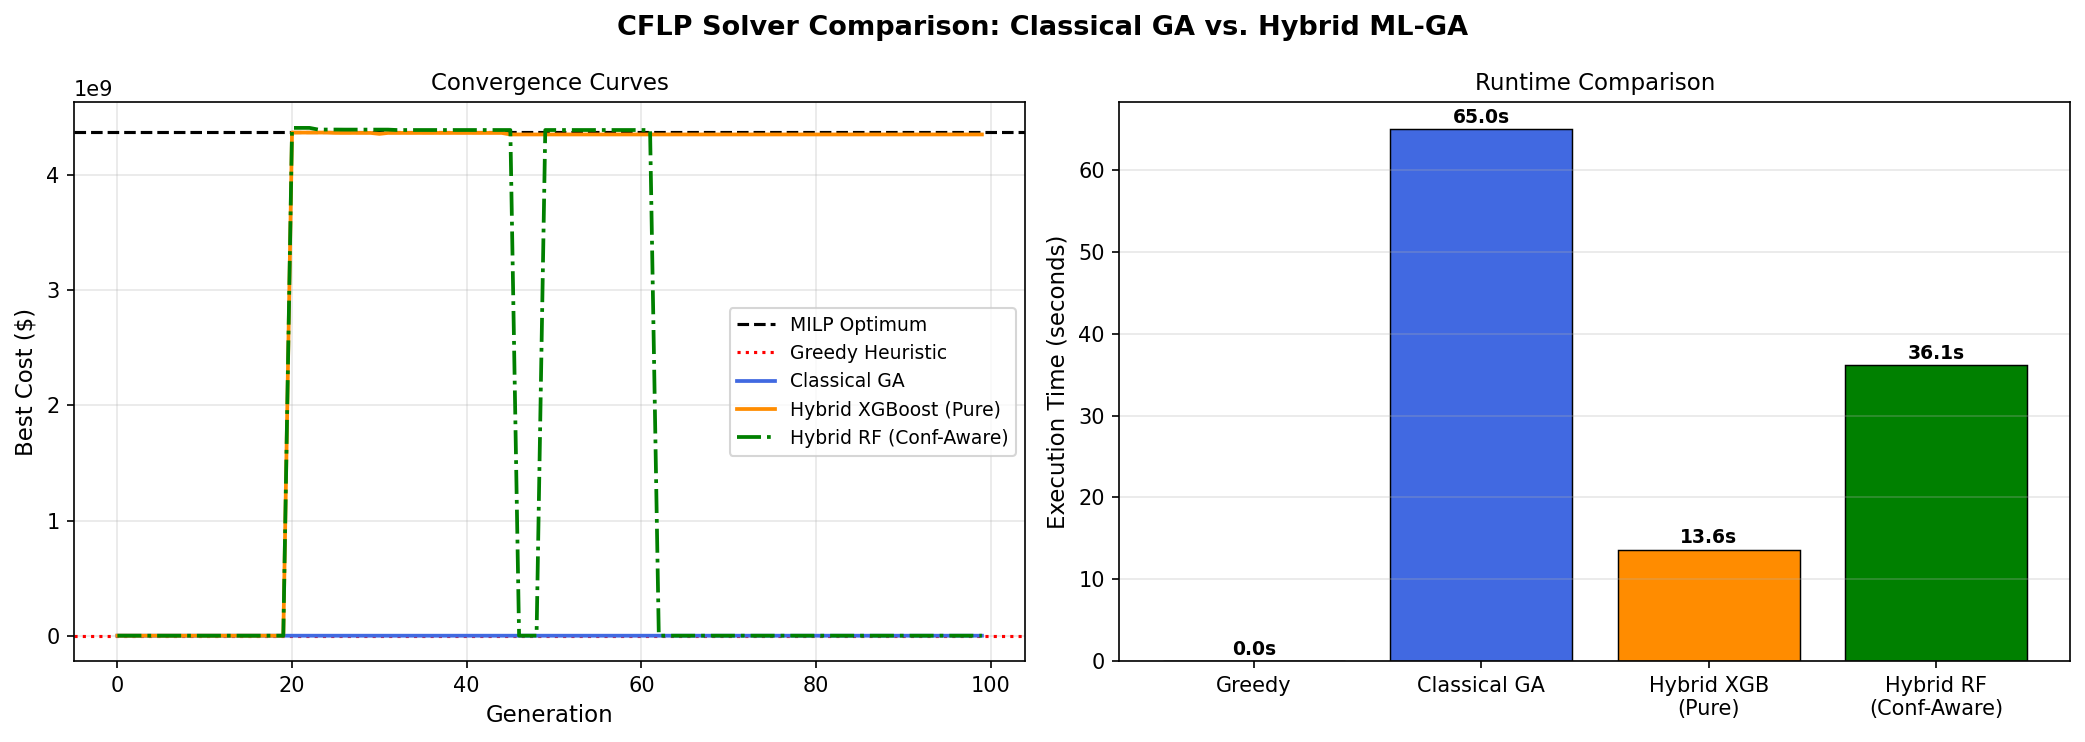
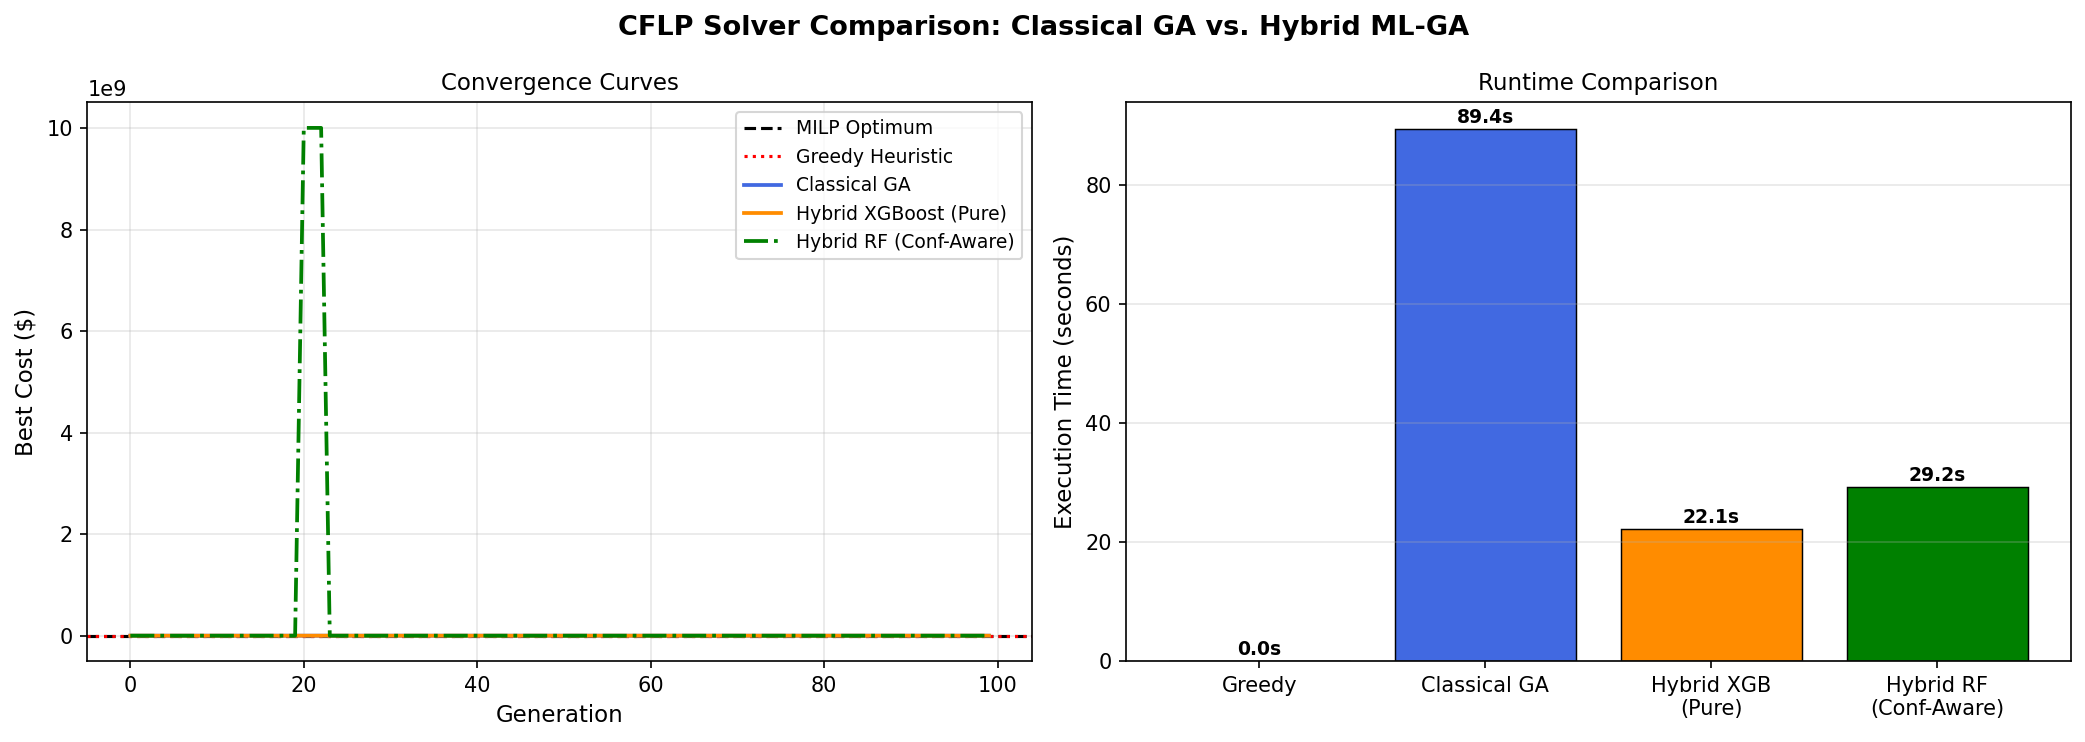
Fix training_pipeline.py and hybrid_ga.py's standalone demo entry points so they no longer fail from a clean checkout
Root cause of the reported error: `python src/hybrid_ga.py` triggers its own
__main__ demo (run_comparison_experiment), which loads pre-trained
surrogate_xgboost.pkl / surrogate_random_forest.pkl from data/processed/ --
files that are intentionally not shipped (regenerable artifacts, not
source). Separately, training_pipeline.py's own standalone main() (the
README's optional Step 3, meant to produce those exact files) had the same
problem one level deeper: it expected data/processed/cflp_dataset.npz to
already exist, and nothing in the current codebase actually generated that
file from scratch.

Fixes:
- training_pipeline.py's main() now bootstraps its own training corpus via
  HybridMLGASolver(surrogate=None) + extract_training_data_from_ga (the same
  proven GA-derived sampling approach benchmark_hybrid_ga.py already uses)
  if cflp_dataset.npz doesn't exist yet, making Step 3 genuinely runnable
  standalone with zero prerequisites.
- hybrid_ga.py's run_comparison_experiment() now checks for its required
  model files upfront and raises a clear, actionable error (naming the
  missing files and pointing to `python src/training_pipeline.py`, and
  clarifying this demo isn't needed to reproduce the project's actual
  reported results) instead of a raw FileNotFoundError traceback.

Verified live end-to-end: emptied data/processed/, ran
`python src/training_pipeline.py` (successfully bootstrapped a corpus and
[…]

diff --git a/src/training_pipeline.py b/src/training_pipeline.py
@@ -204,7 +204,14 @@ class SurrogateTrainingPipeline:
 
 def main():
     """
-    Standalone execution: trains all surrogate models on cap41 corpus.
+    Standalone execution: trains all surrogate models on a cap41 corpus.
+
+    The corpus (data/processed/cflp_dataset.npz) is not shipped -- it is a
+    regenerable artifact, not source. If it doesn't exist yet, it is bootstrapped
+    here from scratch using the same GA-derived sampling approach as
+    benchmark_hybrid_ga.py (HybridMLGASolver with surrogate=None, i.e. every
+    candidate evaluated with the exact LP solver and logged), so this script is
+    runnable standalone from a clean checkout with no prerequisite steps.
     """
     base_dir = os.path.dirname(__file__)
     raw_path = os.path.join(base_dir, "..", "data", "raw", "cap41.txt")
@@ -212,6 +219,19 @@ def main():
     model_save_dir = os.path.join(base_dir, "..", "data", "processed")
 
     dataset = CFLPDataset(raw_path)
+
+    if not os.path.exists(corpus_path):
+        print(f"[Pipeline] No existing corpus at {corpus_path} -- bootstrapping one "
+              f"from scratch via GA-derived sampling (cap41, pop=30, gen=15)...")
+        from hybrid_ga import HybridMLGASolver, extract_training_data_from_ga
+        from dataset_generator import CFLPDatasetGenerator
+
+        bootstrap_ga = HybridMLGASolver(dataset=dataset, surrogate=None,
+                                         pop_size=30, n_generations=15, random_seed=42)
+        boot_result = bootstrap_ga.solve()
+        X, y = extract_training_data_from_ga(boot_result, dataset=dataset)
+        CFLPDatasetGenerator(dataset).save(X, y, corpus_path)
+        print(f"[Pipeline] Bootstrap corpus saved: {X.shape[0]} unique samples -> {corpus_path}")
 
     pipeline = SurrogateTrainingPipeline(
         dataset=dataset,

diff --git a/src/hybrid_ga.py b/src/hybrid_ga.py
@@ -374,10 +374,29 @@ def run_comparison_experiment(dataset_path: str,
       Tier 3b: Hybrid ML-GA — Confidence-Aware (Random Forest)
 
     Saves a convergence + runtime comparison plot to output_dir.
+
+    Requires two pre-trained surrogate model files to already exist in model_dir
+    (surrogate_xgboost.pkl, surrogate_random_forest.pkl) -- these are not shipped,
+    since they are regenerable artifacts, not source. Run
+    `python src/training_pipeline.py` first to generate them.
     """
     print("\n" + "=" * 70)
     print("  CFLP THREE-TIER SOLVER COMPARISON EXPERIMENT")
     print("=" * 70)
+
+    required_models = ["surrogate_xgboost.pkl", "surrogate_random_forest.pkl"]
+    missing = [m for m in required_models if not os.path.exists(os.path.join(model_dir, m))]
+    if missing:
+        raise FileNotFoundError(
+            f"run_comparison_experiment() requires pre-trained surrogate model(s) "
+            f"{missing} in {model_dir}, which don't exist yet. These are regenerable "
+            f"artifacts, not shipped source -- run `python src/training_pipeline.py` "
+            f"first to generate them, then re-run this script.\n"
+            f"Note: this comparison demo is not needed to reproduce the project's "
+            f"reported benchmark results -- for that, run benchmark_statistical.py, "
+            f"benchmark_large.py, and benchmark_hybrid_ga.py instead (see README.md), "
+            f"none of which require any pre-existing model file."
+        )
 
     dataset = CFLPDataset(dataset_path)
 